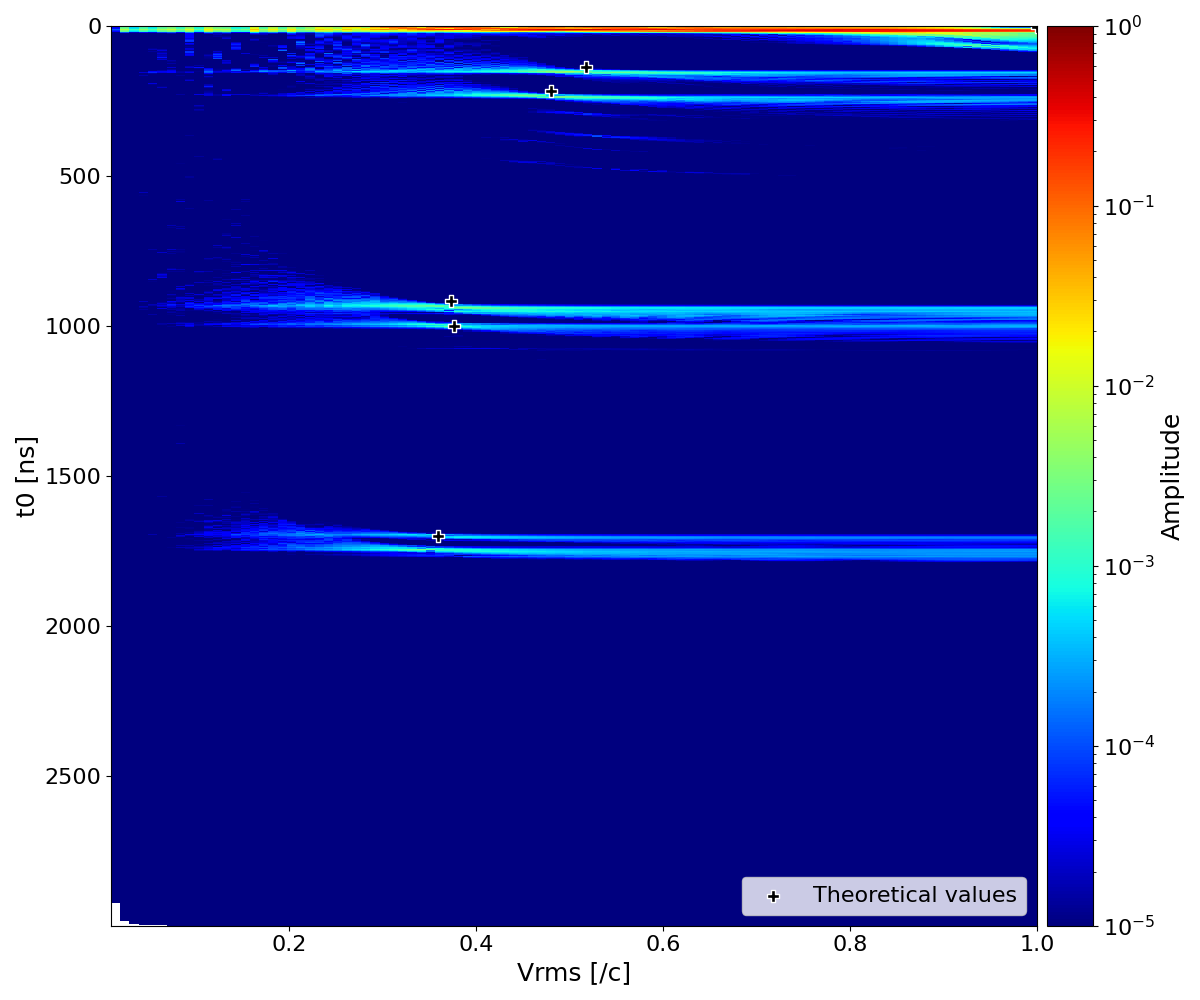
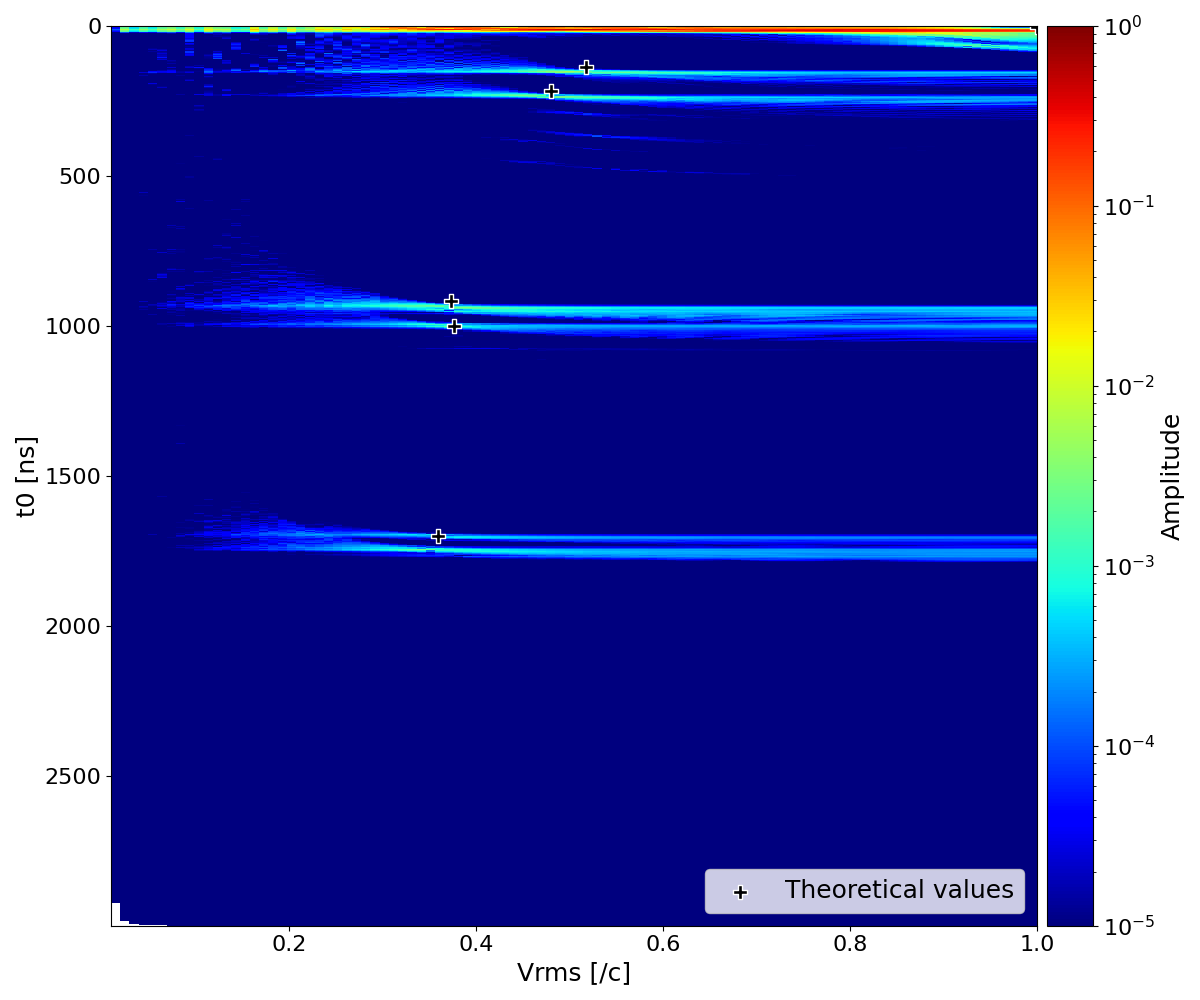
chore: Update scatter marker size and legend font size in estimate_Vrms_CMP.py

Changed region(s): [[0.5858, 0.868, 0.8633, 0.93]]

diff --git a/tools/estimate_Vrms_CMP.py b/tools/estimate_Vrms_CMP.py
@@ -157,7 +157,7 @@ fontsize_small = 16
 
 #* show theoretical values
 ax.scatter(Vrms_theory, t0_theory * 1e9,
-        c = 'black', s = 70, marker = 'P', edgecolor = 'white',
+        c = 'black', s = 100, marker = 'P', edgecolor = 'white',
         label = 'Theoretical values')
 
 
@@ -181,7 +181,7 @@ else:
                 )
 
 
-ax.legend(fontsize=fontsize_small, loc='lower right')
+ax.legend(fontsize=fontsize_medium, loc='lower right')
 ax.set_xlabel('Vrms [/c]', fontsize=fontsize_medium)
 ax.set_ylabel('t0 [ns]', fontsize=fontsize_medium)
 ax.tick_params(labelsize=fontsize_small)
